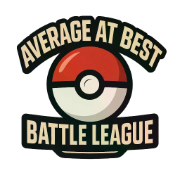
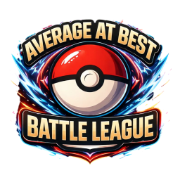
Fix Weekly Matches searchParams handling
- Unwrap async searchParams before reading week
- Update favicon assets
- Add Teams Notion link to planning doc

diff --git a/app/dashboard/weekly-matches/page.tsx b/app/dashboard/weekly-matches/page.tsx
@@ -26,6 +26,8 @@ import { WeeklyBattlePlanEditor } from "@/components/dashboard/weekly-matches/ba
 
 const TOTAL_WEEKS = 8
 
+type SearchParams = { [key: string]: string | string[] | undefined }
+
 function parseWeek(input: unknown) {
   if (typeof input !== "string") return 1
   const n = parseInt(input, 10)
@@ -36,7 +38,7 @@ function parseWeek(input: unknown) {
 export default async function WeeklyMatchesPage({
   searchParams,
 }: {
-  searchParams?: { [key: string]: string | string[] | undefined }
+  searchParams?: SearchParams | Promise<SearchParams>
 }) {
   const supabase = await createClient()
   const {
@@ -53,7 +55,8 @@ export default async function WeeklyMatchesPage({
     redirect("/auth/login")
   }
 
-  const selectedWeek = parseWeek(searchParams?.week)
+  const resolvedSearchParams = await Promise.resolve(searchParams)
+  const selectedWeek = parseWeek(resolvedSearchParams?.week)
 
   const isCoach = profile.role === "coach"
   const teamId = isCoach ? profile.team_id : null

diff --git a/NOTION-TEAMS-PAGE-DB-PLAN.md b/NOTION-TEAMS-PAGE-DB-PLAN.md
@@ -835,3 +835,4 @@ Just tell me which direction you want to go next.
 
 No file chosenNo file chosen
 ChatGPT can make mistakes. Check important info.
+https://www.notion.so/mood-mnky/Teams-2f2cd2a6542280b9906ff0ae5d489e5a?source=copy_link
